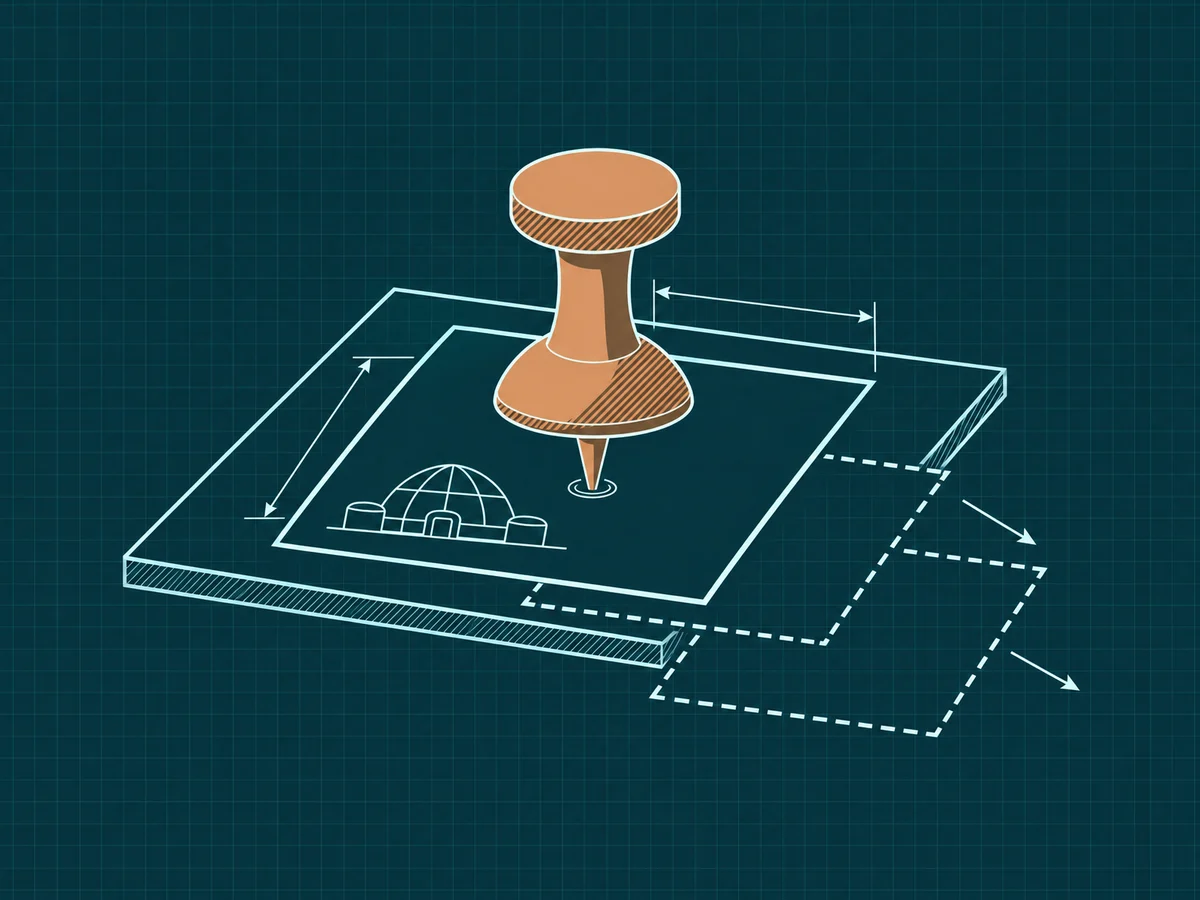
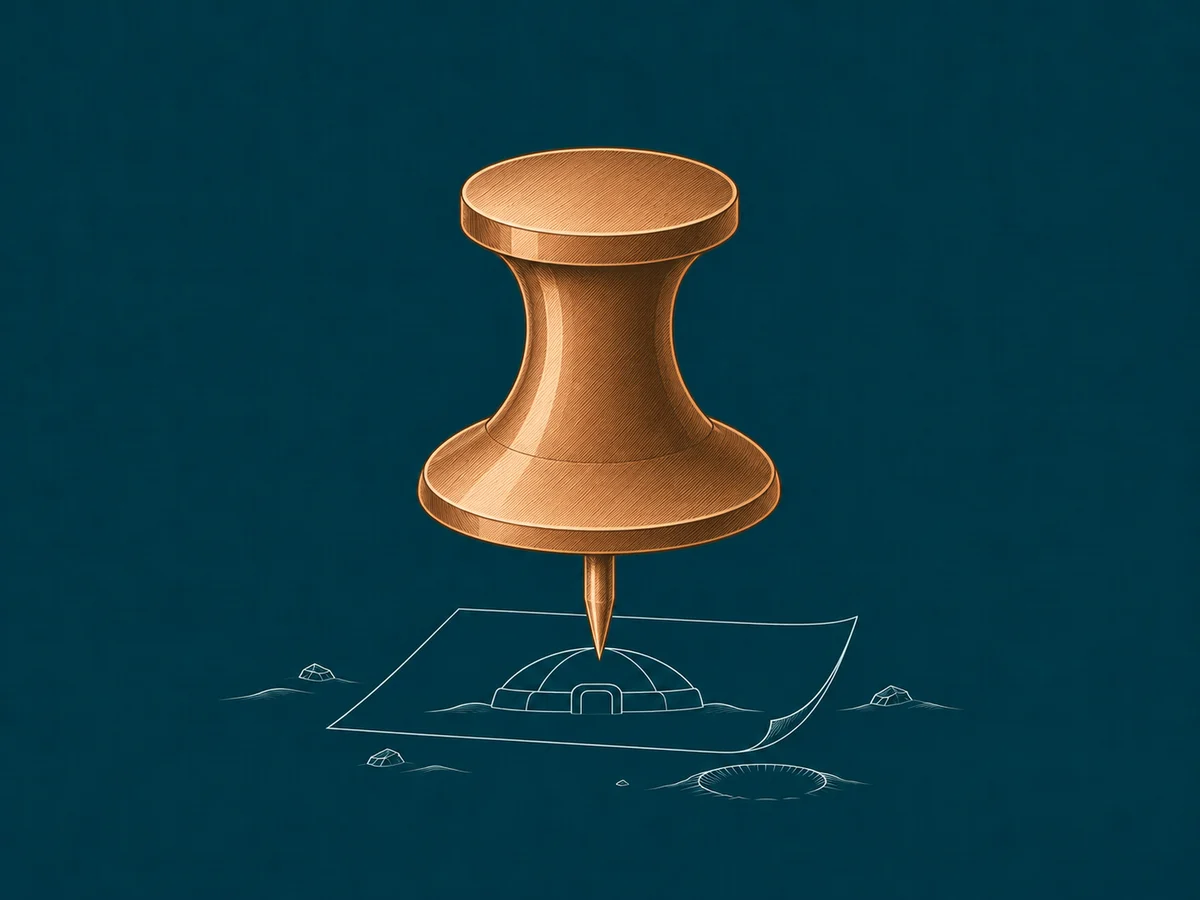
Campaign · «Тендеры» — «Пересмотр проектов» re-rendered under the family's law: one large bronze pushpin through one sheet, no board, no ghosts, no arrows

diff --git a/docs/claude/campaign/tender-face.md b/docs/claude/campaign/tender-face.md
@@ -111,7 +111,7 @@
 | 03 | restructuring | медь | ✅ СДАН — башенный КРАН с модулем на крюке (башни нет); было: купольная башня штаб-квартиры, СТРОИТЕЛЬНЫЙ КРАН вынимает один модуль-этаж и ставит другой | модуль на крюке |
 | 04 | extendedLegacy | медь | ✅ СДАН — запломбированный грузовой КОНТЕЙНЕР на салазках (рама и стропы сняты) («ещё один ящик прошёл таможню») | контейнер |
 | 05 | preludeReview | медь | ✅ СДАН — ПОСАДОЧНЫЙ МОДУЛЬ на опорах, люк открыт, трап спущен на реголит (пролог = первое, что село на Марс); флаг и шахматный конь отвергнуты | модуль |
-| 06 | projectReview | бронза | КНОПКА-герой крупно, приколола один лист с эскизом купола к реголиту (перерендер по финальному закону — первый вариант с доской, призраками и стрелками выбивался из ряда, владелец 2026-11-08) | кнопка |
+| 06 | projectReview | бронза | ✅ СДАН (перерендер) — КНОПКА-герой крупно, приколола один лист с эскизом купола к реголиту (перерендер по финальному закону — первый вариант с доской, призраками и стрелками выбивался из ряда, владелец 2026-11-08) | кнопка |
 | 07 | openCall | медь | ✅ СДАН — СКАФАНДРОВЫЙ ШЛЕМ колониста-кандидата, визир поднят | шлем |
 | 08 | broadPortfolio | медь | ✅ СДАН — ТУБУС для чертежей, переполненный: из него веером торчат рулоны чертежей | тубус |
 | 09 | researchSubsidy | медь | ✅ СДАН — лабораторная КОЛБА, в горлышко падает монета (один предмет) | колба + монета |
